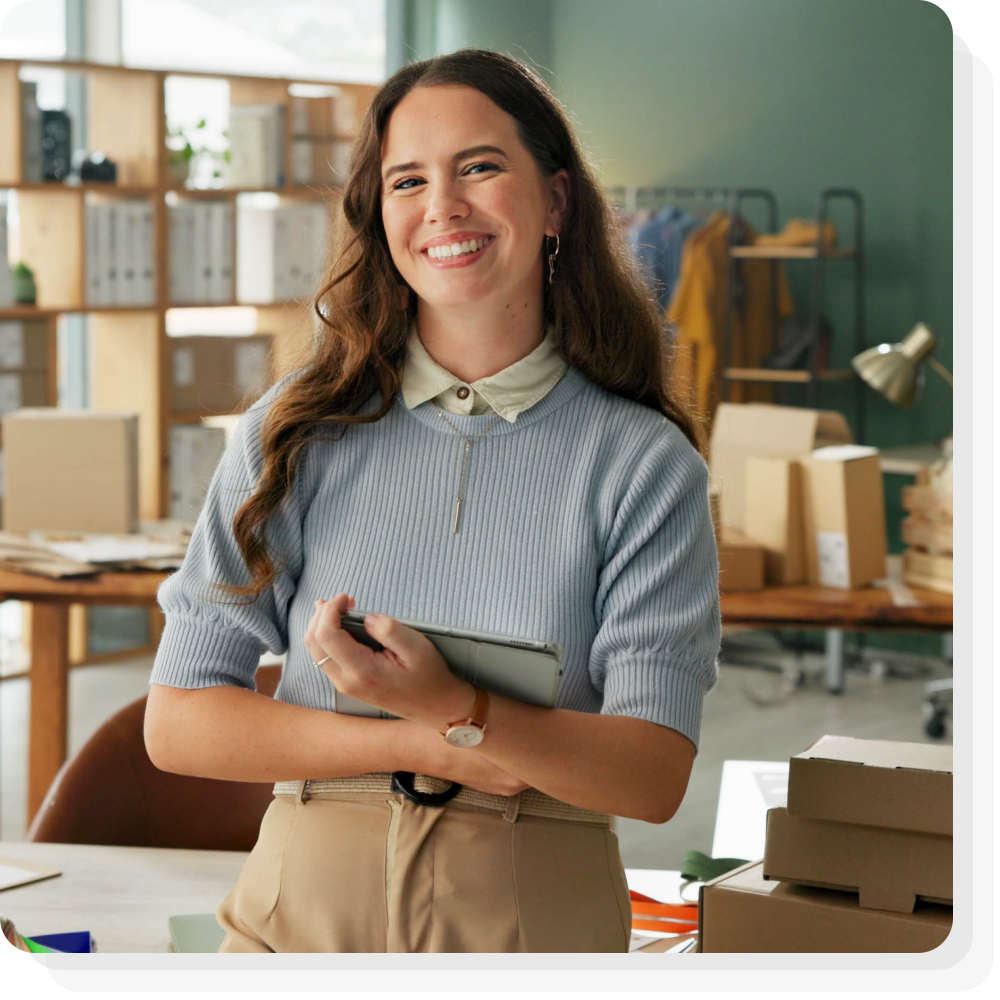
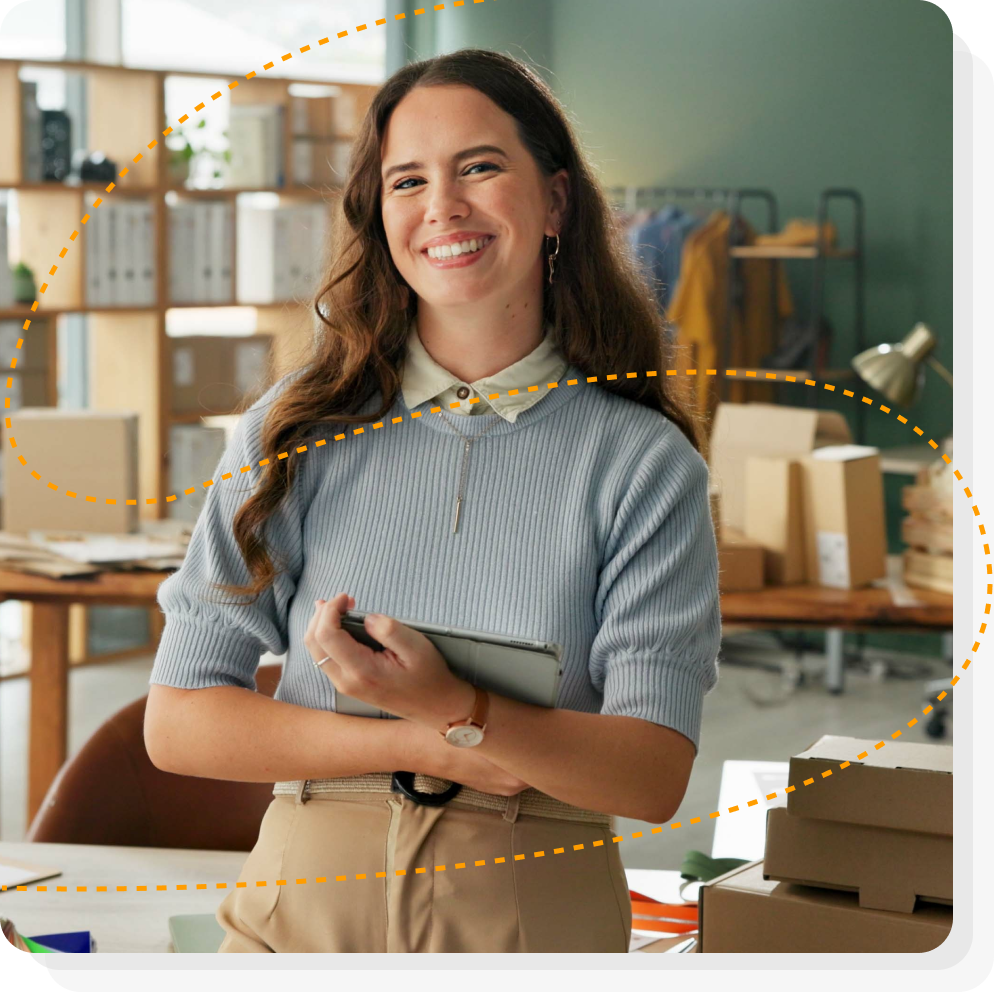
nuevas imagenes factoring, modificaciones CSS

diff --git a/css/estyle.css b/css/estyle.css
@@ -3304,11 +3304,19 @@ select.modal-hazte-cliente__input:disabled {
   background-color: #19233E;
   color: #fff;
 }
-.requisitos--naranjo img[src$="que-facturas-se-pueden-ceder.png"] {
+/* Imágenes de "¿Qué facturas puedes ceder?" y "¿Qué significa factorizar?": mismo tamaño */
+.requisitos--naranjo img[src$="que-facturas-se-pueden-ceder.png"],
+.factorizar-section .factorizar-section__img {
   display: block;
   width: 85%; /* 15% más pequeña que el ancho de su columna */
   margin-left: auto;
   margin-right: auto;
+}
+@media (max-width: 767.98px) {
+  .requisitos--naranjo img[src$="que-facturas-se-pueden-ceder.png"],
+  .factorizar-section .factorizar-section__img {
+    width: 100%; /* en celular, a todo el ancho de la columna */
+  }
 }
 .requisitos--naranjo .frase-action span {
   color: #19233E; /* sobre naranjo, el acento del título pasa a azul */
@@ -3320,8 +3328,12 @@ select.modal-hazte-cliente__input:disabled {
 .factorizar-section__img {
   width: 100%;
   aspect-ratio: 1 / 1;
-  object-fit: cover;
-  border-radius: 110px 20px 20px 20px; /* curva espejada respecto de la imagen de la sección naranja */
+  object-fit: cover; /* la imagen trae sus esquinas redondeadas y sombra incluidas */
+}
+@media (min-width: 992px) {
+  .factorizar-section {
+    padding-top: 80px; /* solo escritorio */
+  }
 }
 .factorizar-section h2 {
   line-height: 1.2; /* el título ocupa dos líneas y el interlineado heredado las junta demasiado */

diff --git a/factoring.html b/factoring.html
@@ -403,7 +403,7 @@
       <div class="container-lg">
         <div class="row align-items-center">
           <div class="col-12 col-md-6 col-lg-6 order-md-2">
-            <img src="imagenes/como-funciona-fc.jpg" width="722" height="739" class="img-fluid factorizar-section__img mt-5 my-lg-4 reveal" alt="Dueña de una pyme en su taller" loading="lazy" decoding="async">
+            <img src="imagenes/que-significa-factorizar.png" width="1000" height="1000" class="img-fluid factorizar-section__img mt-5 my-lg-4 reveal" alt="Dueños de una cafetería sonriendo en su local" loading="lazy" decoding="async">
           </div>
           <div class="col-12 col-md-6 col-lg-6 order-md-1 p-lg-5 p-4 pt-5">
             <h2 id="factorizar-title" class="frase-action mb-4 reveal text-md-start">¿Qué significa <span>factorizar</span> una factura?</h2>
